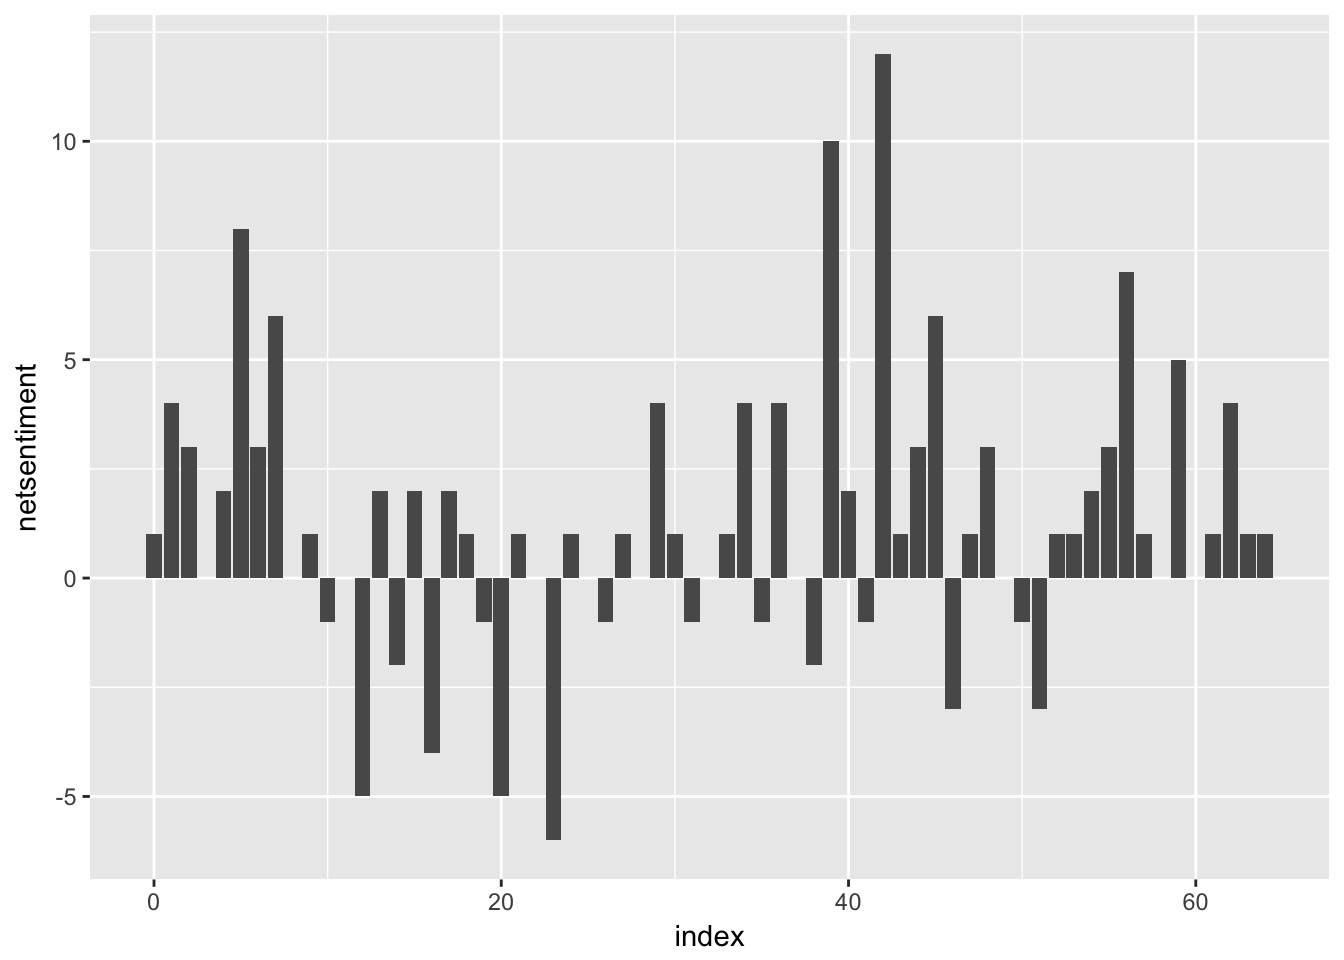
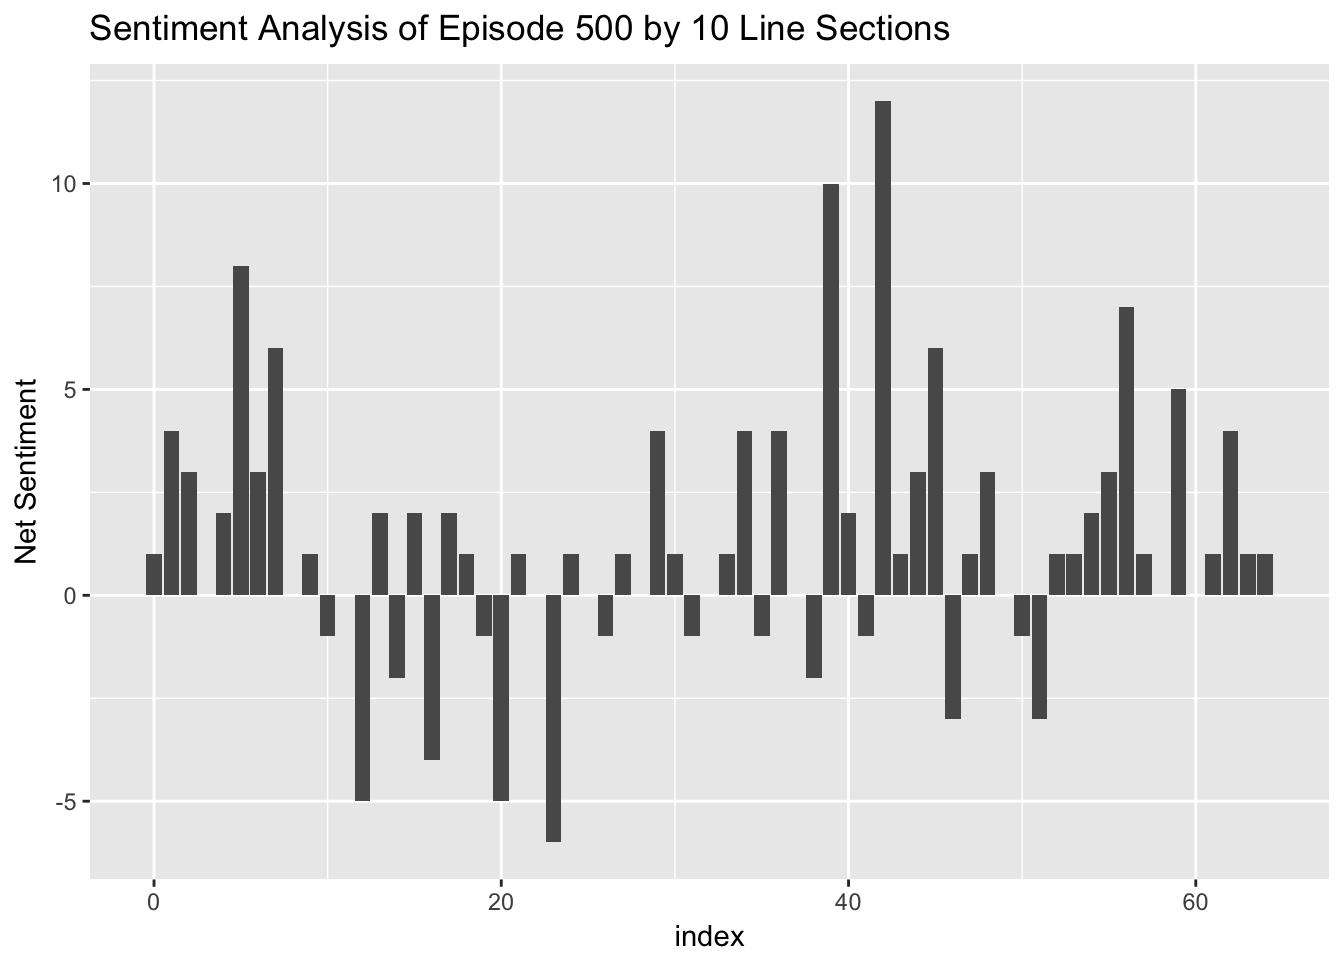
add security now post

diff --git a/content/post/2017-07-01-sn-text-mining.html b/content/post/2017-07-01-sn-text-mining.html
@@ -7,7 +7,6 @@ categories:
   - R
 tags:
   - textmining
-draft: true
 ---
 
 
@@ -27,6 +26,8 @@ draft: true
 library(ggplot2)
 library(tidyr)</code></pre>
 <p>I downloaded the episode transcripts from GRC.com.</p>
+<div id="obtaining-text" class="section level2">
+<h2>Obtaining Text</h2>
 <pre><code>DIRECTORY &lt;- &quot;/Volumes/WD_6GB_Chings/media/Books/securitynow/shows/&quot;
 
 # change the i to go from the first show number you want to the last show number. As of 1 July 2017, the most recent show is #618.
@@ -42,12 +43,15 @@ for(i in 500:599) {
 # list.files(DIRECTORY)
 sn_500 &lt;- readLines(paste0(DIRECTORY, &quot;sn-500.txt&quot;))
 sn_500_df &lt;- data_frame(linenumber = 1:length(sn_500), text = sn_500, episode = 500L)</code></pre>
+</div>
+<div id="most-commonly-used-words" class="section level2">
+<h2>Most Commonly Used Words</h2>
 <p>Then I loaded the stop words data (words like “the”, “of” that are commonly used but not very meaningful). I added on Leo and Steve’s names and the word yeah which seemed to be used a lot.</p>
 <pre class="r"><code>data(&quot;stop_words&quot;)
 custom_stop_words &lt;- bind_rows(data_frame(word = c(&quot;leo&quot;, &quot;steve&quot;, &quot;yeah&quot;), 
                                           lexicon = rep(&quot;custom&quot;, 3)), 
                                stop_words)</code></pre>
-<p>Then I used the</p>
+<p>Then I used the <code>unnest_tokens()</code> function to separate the lines into words, removed the stop words, and counted the most commmon words. The result was the figure below showing the most common words in this episode.</p>
 <pre class="r"><code>sn_500_df %&gt;% unnest_tokens(word, text) %&gt;%
   anti_join(custom_stop_words) %&gt;% 
   count(word, sort = TRUE) %&gt;% 
@@ -56,9 +60,14 @@ custom_stop_words &lt;- bind_rows(data_frame(word = c(&quot;leo&quot;, &quot;ste
   ggplot(aes(x = word, y = n)) +
   geom_col()  +
   xlab(NULL) +
-  coord_flip()</code></pre>
+  coord_flip() +
+  ggtitle(&quot;Most commonly used words in Security Now, Episode 500&quot;)</code></pre>
 <pre><code>## Joining, by = &quot;word&quot;</code></pre>
 <p><img src="/post/2017-07-01-sn-text-mining_files/figure-html/unnamed-chunk-4-1.png" width="672" /></p>
+</div>
+<div id="sentiment-analysis" class="section level2">
+<h2>Sentiment Analysis</h2>
+<p>Sentiment Analysis looks at the number of positive words and negative words used in a section of text. This can vary over the course of the text. I performed a sentiment analysis on the episode.</p>
 <pre class="r"><code>sn_500_df %&gt;% unnest_tokens(word, text) %&gt;%
   anti_join(custom_stop_words) %&gt;% 
   inner_join(get_sentiments(&quot;bing&quot;)) %&gt;%
@@ -66,20 +75,21 @@ custom_stop_words &lt;- bind_rows(data_frame(word = c(&quot;leo&quot;, &quot;ste
   spread(sentiment, n, fill = 0) %&gt;%
   mutate(netsentiment = positive - negative) %&gt;%
   ggplot(aes(x = index, y = netsentiment)) +
-  geom_col()</code></pre>
+  geom_col() +
+  labs(title = &quot;Sentiment Analysis of Episode 500 by 10 Line Sections&quot;,
+       y = &quot;Net Sentiment&quot;)</code></pre>
 <pre><code>## Joining, by = &quot;word&quot;
 ## Joining, by = &quot;word&quot;</code></pre>
 <p><img src="/post/2017-07-01-sn-text-mining_files/figure-html/unnamed-chunk-5-1.png" width="672" /></p>
-<pre class="r"><code>bing_word_counts &lt;- sn_500_df %&gt;% unnest_tokens(word, text) %&gt;%
-  anti_join(stop_words) %&gt;% 
-  anti_join(data_frame(word = c(&quot;leo&quot;, &quot;steve&quot;, &quot;yeah&quot;))) %&gt;% 
+<p>I also looked at the most used positive and negative words. First I assigned sentiments then counted how often they were used. Some words do not have sentiments associated with them so this is only a partial list of the words used in the episode.</p>
+<pre class="r"><code>bing_word_counts &lt;- sn_500_df %&gt;% 
+  unnest_tokens(word, text) %&gt;%
+  anti_join(custom_stop_words, by = &quot;word&quot;) %&gt;% 
   arrange(linenumber) %&gt;% 
-  inner_join(get_sentiments(&quot;bing&quot;)) %&gt;%
+  inner_join(get_sentiments(&quot;bing&quot;), by = &quot;word&quot;) %&gt;%
   count(word, sentiment, sort = TRUE) %&gt;%
   ungroup()</code></pre>
-<pre><code>## Joining, by = &quot;word&quot;
-## Joining, by = &quot;word&quot;
-## Joining, by = &quot;word&quot;</code></pre>
+<p>Then I plotted the most commonly used sentiments by positive or negative sentiment.</p>
 <pre class="r"><code>bing_word_counts %&gt;%
   group_by(sentiment) %&gt;%
   top_n(10) %&gt;%
@@ -93,11 +103,29 @@ custom_stop_words &lt;- bind_rows(data_frame(word = c(&quot;leo&quot;, &quot;ste
   coord_flip()</code></pre>
 <pre><code>## Selecting by n</code></pre>
 <p><img src="/post/2017-07-01-sn-text-mining_files/figure-html/unnamed-chunk-7-1.png" width="672" /></p>
-<p>Next step is to pull many episodes and compare them.</p>
-<pre class="r"><code>sn_500_df %&gt;% unnest_tokens(character, text, token = &quot;characters&quot;) %&gt;%
-  count(character, sort = T) %&gt;% mutate(total_chars = sum(n)) %&gt;%
-  mutate(prop_chars = n/total_chars) %&gt;%
-  arrange(character) %&gt;%
-  ggplot(aes(x = character, y = prop_chars)) +
-  geom_col()</code></pre>
-<p><img src="/post/2017-07-01-sn-text-mining_files/figure-html/unnamed-chunk-8-1.png" width="672" /></p>
+</div>
+<div id="discussion" class="section level1">
+<h1>Discussion</h1>
+<p>This episode was mostly about Windows Secure Boot, so it’s no surprise that UEFI and Windows were among the top words. It’s also possibly the reason secure was one of the most commonly used words but the show is about computer security, so I would guess that this is a commonly used word anyway.</p>
+<p>The sentiment analysis showed that the episode varies in sentiment as it goes along and can be sometimes very positive. Here’s the part from 420-430 that has the peak positive sentiment. He’s explaining the history of the UEFI BIOS and how it’s so powerful.</p>
+<pre class="r"><code>sn_500[420:430]</code></pre>
+<pre><code>##  [1] &quot;&quot;                                                                                                                                                                                                                                                                                                                                                                                                                                                                                                                                                                                                                                                                                                                                                                                                                                                                                               
+##  [2] &quot;STEVE:  Right, right.  And so in Lotus I remember they were programming the video RAM directly because they just couldn&#39;t afford the overhead of the BIOS.  The BIOS could have allowed them to do it.  But the things they wanted to do, scrolling quickly, horizontally and vertically; moving, like, highlight bars around the screen.  It just couldn&#39;t do that.  So they had to bypass the BIOS and go direct.&quot;                                                                                                                                                                                                                                                                                                                                                                                                                                                                            
+##  [3] &quot;&quot;                                                                                                                                                                                                                                                                                                                                                                                                                                                                                                                                                                                                                                                                                                                                                                                                                                                                                               
+##  [4] &quot;So many older systems are still BIOS based.  The BIOSes have lived for decades, mostly because you could bypass it.  You would use the BIOS to essentially power the system up.  It would initialize the hardware.  It would sort of settle things down.  Then it would look through a list of possible boot devices, checking them in sequence for a sector that said it had access to a bootable partition, and it would go and see if it could boot the partition.  If so, it would run that code, and off you&#39;d go.  The operating system then, rather than using the BIOS - for example, DOS actually did use the BIOS.  But the first thing Windows did was say, okay, fine, get out of the way.  And Windows brought its own drivers, essentially to talk directly to the hardware.&quot;                                                                                                     
+##  [5] &quot;&quot;                                                                                                                                                                                                                                                                                                                                                                                                                                                                                                                                                                                                                                                                                                                                                                                                                                                                                               
+##  [6] &quot;So this was the situation up until probably, what, the mid-1990s or so, when the BIOS began to show its age.  Systems were evolving.  We were beginning to want much more capability.  People wanted to be able to boot their system over the network remotely.  They wanted, corporate IT wanted to be able to do an inventory of what was plugged into the motherboard without even talking to the operating system, actually have the motherboard be smart enough.  Motherboards started to want to be able to monitor the voltages of their power supplies, and the current.  They had multiple fans, and so they wanted to control temperature in various areas.  They had fancy RAID arrays that they needed to support.&quot;                                                                                                                                                                 
+##  [7] &quot;&quot;                                                                                                                                                                                                                                                                                                                                                                                                                                                                                                                                                                                                                                                                                                                                                                                                                                                                                               
+##  [8] &quot;Essentially, the very modest platform that the PC XT originally was, that the BIOS was able to service, that platform just exploded.  So we needed something new.  And so the so-called EFI then became the unified extensible firmware interface, UEFI, which is now the state of the art in firmware.  Some people say the \&quot;UEFI BIOS,\&quot; although technically that&#39;s not right because the BIOS is the BIOS, and UEFI is a different firmware than the BIOS firmware.  But today&#39;s UEFI offers a vast array of services.  There&#39;s essentially almost an operating system within the motherboard to manage the modern complexity of all the peripherals.  There&#39;s an ACPI which is the power control that allows various power-down states.  And all that has to be communicated and coordinated with the hardware so that the motherboard understands how to do that to all of its hardware.&quot;
+##  [9] &quot;&quot;                                                                                                                                                                                                                                                                                                                                                                                                                                                                                                                                                                                                                                                                                                                                                                                                                                                                                               
+## [10] &quot;So you still need sort of a central point of responsibility.  And as I mentioned, there&#39;s fans and voltage and current monitoring, remote network booting, just all the chassis management and everything.  So the UEFI has just exploded in size.  It&#39;s really left the original BIOS way behind.  So it got to the point where it was time to talk about security.  And the UEFI has gone through a number of versions.  It was at 2.2 that we first really got what was known as \&quot;Secure Boot.\&quot;  And in the same way that the iPhone depends upon its hardware in order to provide absolute security, the Secure Boot is the same way.&quot;                                                                                                                                                                                                                                                    
+## [11] &quot;&quot;</code></pre>
+<div id="next-steps" class="section level3">
+<h3>Next Steps</h3>
+<p>I’d like to take a larger sample of episodes and re-run this analysis to see how things vary over time. He does some Listener Feedback episodes, and I wonder if the sentiment is different during those episodes?</p>
+</div>
+<div id="conclusion" class="section level2">
+<h2>Conclusion</h2>
+<p>Not much takeaway here yet since I only looked at one episode. The <strong>tidytext</strong> package does make it very easy to do natural language processing and analysis.</p>
+</div>
+</div>
